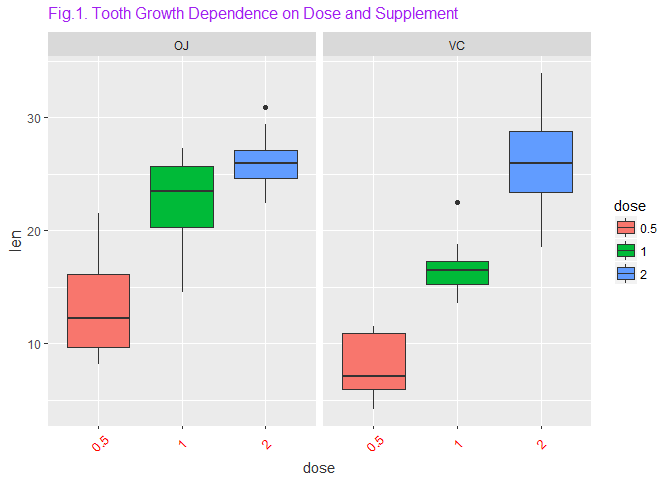
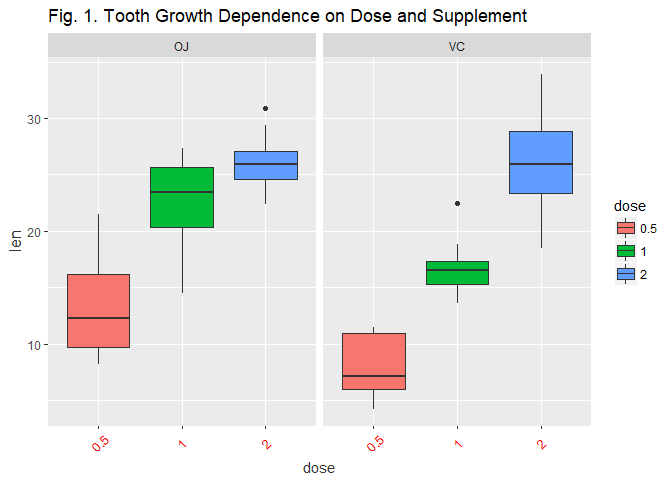
Final commit of Part II

diff --git a/tooth-growth.html b/tooth-growth.html
@@ -137,6 +137,8 @@ $(document).ready(function () {
 <div id="exploratory-data-analysis-of-the-toothgrowth-dataset" class="section level2">
 <h2>Exploratory Data Analysis of the ToothGrowth Dataset</h2>
 <p>We have not been given any instructions whatsoever related to the format of this data set or what it might represent. We have been asked to attempt to familiarize ourselves with this data with the use of exploratory data analysis techniques available with R programming. We will now conduct a few techniques so that we can become more familiar with this dataset. Comments are embedded within the R code below.</p>
+<div id="initial-data-mining" class="section level3">
+<h3>Initial Data Mining</h3>
 <pre class="r"><code># Load ToothGrowth dataset
 tgdata &lt;- ToothGrowth
 
@@ -225,19 +227,102 @@ tgdata</code></pre>
 ## 58 27.3   OJ    2
 ## 59 29.4   OJ    2
 ## 60 23.0   OJ    2</code></pre>
+</div>
+<div id="box-plot-visualization" class="section level3">
+<h3>Box Plot Visualization</h3>
 <p>Let’s now load the <strong>ggplot2</strong> library and visualize this data on a box plot.</p>
 <pre class="r"><code>library(&quot;ggplot2&quot;)
 tgdata$dose=as.factor(tgdata$dose)
 ggplot(tgdata, aes(x=dose,y=len)) + 
     geom_boxplot(aes(fill = dose)) + 
-    ggtitle('Fig.1. Tooth Growth Dependence on Dose and Supplement ') + 
+    ggtitle('Fig. 1. Tooth Growth Dependence on Dose and Supplement ') + 
     facet_grid(.~supp) + 
         theme(axis.title.y = element_text(colour=&quot;gray20&quot;,size=12,angle=90,hjust=.5,vjust=1),
         axis.title.x = element_text(colour=&quot;gray20&quot;),
-        plot.title = element_text(vjust=1.5,size = 12,colour=&quot;purple&quot;),
         axis.text.x = element_text(colour=&quot;red&quot;,size=10,angle=45,hjust=.5, vjust=.5))</code></pre>
[1 lines of base64/hex data omitted]
-<p>The box plots, as shown above in Fig. 1, allow us to visualize the distribution of the data along with five other important data points, including the min value, max value, mean, and the 1st and 3rd quartiles. Points on the lines outside the boxes are considered the outliers in the dataset. This visualization of the distribution of data clearly suggests that tooth growth in the guinea pigs clearly favored the delivery of the Vitamin C via the OJ with the smaller doses of 0.5 and 1 mg/day. The data further shows that while the means of the tooth growth related to the method of supplement delivery are equivalent with the higher dose of 2 mg/day. The tooth growth does show slightly higher normal variation with the ascorbic acid supplement in that higher dose of 2 mg/day.</p>
[1 lines of base64/hex data omitted]
+<p>The box plots, as shown above in Fig. 1, allow us to visualize the distribution of the data along with five other important data points, including the min value, max value, mean, and the 1st and 3rd quartiles. Points on the lines outside the boxes are considered the outliers in the dataset. This visualization of the distribution of data clearly suggests that tooth growth in the guinea pigs clearly favored the delivery of the Vitamin C via the OJ with the smaller doses of 0.5 and 1 mg/day. The data further shows that while the means of the tooth growth related to the method of supplement delivery are equivalent with the higher dose of 2 mg/day, the tooth growth does show slightly higher normal variation with the ascorbic acid supplement in that higher dose of 2 mg/day.</p>
+</div>
+<div id="scatter-plot-visualization" class="section level3">
+<h3>Scatter Plot Visualization</h3>
+<p>Here is another visualization of the data using a scatterplot that I find very helpful.</p>
+<pre class="r"><code># Calculate the mean for every dose and supp
+avg &lt;- aggregate(len~., data=tgdata, mean)
+g &lt;- ggplot(aes(x=dose, y=len), data=tgdata) + 
+    geom_point(aes(color=supp)) +
+    ggtitle('Fig. 2. Tooth Growth Dependence on Dose and Supplement ')
+g &lt;- g + geom_line(data=avg,aes(group=supp,colour=supp))
+print(g)</code></pre>
[1 lines of base64/hex data omitted]
+<p>This plot shows the same result as the boxplot in Fig. 1. In Fig. 2, once again, we can visualize that the tooth length associated with the OJ supplement are clearly higher with the lower doses and these means converge with the higher dose of 2 mg/day. At the higher dose of 2 mg/day, along with the convergence of the means, we can easily visualize that the variance of the data is greater with the VC supplement thus creating some events with greater tooth length along with events that are clearly shorter.</p>
+</div>
+</div>
+<div id="t-confidence-intervals-and-hypothesis-testing" class="section level2">
+<h2>T Confidence Intervals and Hypothesis Testing</h2>
+<p>T Confidence Intervals is a statistical method for dealing with small datasets. In the Asymptotics lesson, we discussed confidence intervals using the Central Limit Theorem (CLT) and normal distributions. These methods required large sample sizes, and the formula for computing the confidence interval was mean +/- qnorm * std error(mean). Here, qnorm represents a specified quantile from a normal distribution. Also, in the study of Asymptotics, we also learned about the Z statistic Z =(X’-mu)/(sigma/sqrt(n)) which follows a standard normal distribution. This normalized Z statistic is especially nice because we know tha values of the mean and the variance which are 0 and 1, respectively.</p>
+<p>The T statistic looks a lot like the Z. It’s defined as t=(X’-mu)/(s/sqrt(n)). Like the Z statistic, the t is centered around 0. The only difference between the two is that the population standard deviation, sigma, in Z is replaced by the sample standard deviation in the t. So the distribution of the t statistic is independent on the population mean and variance. Instead, it depends on the sample size of n. The sample size of n now leads us into the definition of a concept of number of degrees of freedom, df, which is calculated simply as n-1.</p>
+<p>In our lesson, we are encouraged, unless otherwise instructed, to consider that the default confidence interval should always be 95%. Our lecture took us through a series of exercises that concluded with the suggested use of the built-in R programming capabilities of t.test.</p>
+<div id="subset-dosage-as-a-factor" class="section level3">
+<h3>Subset Dosage as a Factor</h3>
+<pre class="r"><code>dose1 &lt;- subset(tgdata, dose %in% c(0.5, 1.0))
+dose2 &lt;- subset(tgdata, dose %in% c(0.5, 2.0))
+dose3 &lt;- subset(tgdata, dose %in% c(1.0, 2.0))
+t.test(len ~ dose, paired = F, var.equal = F, data = dose1)</code></pre>
+<pre><code>## 
+##  Welch Two Sample t-test
+## 
+## data:  len by dose
+## t = -6.4766, df = 37.986, p-value = 1.268e-07
+## alternative hypothesis: true difference in means is not equal to 0
+## 95 percent confidence interval:
+##  -11.983781  -6.276219
+## sample estimates:
+## mean in group 0.5   mean in group 1 
+##            10.605            19.735</code></pre>
+<pre class="r"><code>t.test(len ~ dose, paired = F, var.equal = F, data = dose2)</code></pre>
+<pre><code>## 
+##  Welch Two Sample t-test
+## 
+## data:  len by dose
+## t = -11.799, df = 36.883, p-value = 4.398e-14
+## alternative hypothesis: true difference in means is not equal to 0
+## 95 percent confidence interval:
+##  -18.15617 -12.83383
+## sample estimates:
+## mean in group 0.5   mean in group 2 
+##            10.605            26.100</code></pre>
+<pre class="r"><code>t.test(len ~ dose, paired = F, var.equal = F, data = dose3)</code></pre>
+<pre><code>## 
+##  Welch Two Sample t-test
+## 
+## data:  len by dose
+## t = -4.9005, df = 37.101, p-value = 1.906e-05
+## alternative hypothesis: true difference in means is not equal to 0
+## 95 percent confidence interval:
+##  -8.996481 -3.733519
+## sample estimates:
+## mean in group 1 mean in group 2 
+##          19.735          26.100</code></pre>
+</div>
+<div id="supplement-dosage-as-a-factor" class="section level3">
+<h3>Supplement Dosage as a Factor</h3>
+<pre class="r"><code>t.test(len ~ supp, paired = F, var.equal = F, data = tgdata)</code></pre>
+<pre><code>## 
+##  Welch Two Sample t-test
+## 
+## data:  len by supp
+## t = 1.9153, df = 55.309, p-value = 0.06063
+## alternative hypothesis: true difference in means is not equal to 0
+## 95 percent confidence interval:
+##  -0.1710156  7.5710156
+## sample estimates:
+## mean in group OJ mean in group VC 
+##         20.66333         16.96333</code></pre>
+</div>
+</div>
+<div id="conclusion" class="section level2">
+<h2>Conclusion</h2>
+<p>From the t confidence intervals calculated above, we can conclude that we should reject the null hypothesis, and confirm that there is a significant correlation between tooth length and dosage levels because the value of zero does not appear within any of the calculated confidence intervals. Alternatively, we would choose to accept the null hypothesis and confirm that there is no correlation between delivery method and tooth length as the value of zero does exist within the bounds of the calculated confidence interval.</p>
 </div>
 
 

diff --git a/tooth-growth.md b/tooth-growth.md
@@ -17,6 +17,8 @@ In the second portion of the project, we're going to analyze the ToothGrowth dat
 
 We have not been given any instructions whatsoever related to the format of this data set or what it might represent.  We have been asked to attempt to familiarize ourselves with this data with the use of exploratory data analysis techniques available with R programming.  We will now conduct a few techniques so that we can become more familiar with this dataset.  Comments are embedded within the R code below.
 
+### Initial Data Mining
+
 
 ```r
 # Load ToothGrowth dataset
@@ -130,6 +132,8 @@ tgdata
 ## 60 23.0   OJ    2
 ```
 
+### Box Plot Visualization
+
 Let's now load the **ggplot2** library and visualize this data on a box plot.
 
 
@@ -139,22 +143,127 @@ library("ggplot2")
 tgdata$dose=as.factor(tgdata$dose)
 ggplot(tgdata, aes(x=dose,y=len)) + 
     geom_boxplot(aes(fill = dose)) + 
-    ggtitle('Fig.1. Tooth Growth Dependence on Dose and Supplement ') + 
+    ggtitle('Fig. 1. Tooth Growth Dependence on Dose and Supplement ') + 
     facet_grid(.~supp) + 
         theme(axis.title.y = element_text(colour="gray20",size=12,angle=90,hjust=.5,vjust=1),
         axis.title.x = element_text(colour="gray20"),
-        plot.title = element_text(vjust=1.5,size = 12,colour="purple"),
         axis.text.x = element_text(colour="red",size=10,angle=45,hjust=.5, vjust=.5))
 ```
 
 ![](tooth-growth_files/figure-html/unnamed-chunk-2-1.png)<!-- -->
 
-The box plots, as shown above in Fig. 1, allow us to visualize the distribution of the data along with five other important data points, including the min value, max value, mean, and the 1st and 3rd quartiles.  Points on the lines outside the boxes are considered the outliers in the dataset.  This visualization of the distribution of data clearly suggests that tooth growth in the guinea pigs clearly favored the delivery of the Vitamin C via the OJ with the smaller doses of 0.5 and 1 mg/day. The data further shows that while the means of the tooth growth related to the method of supplement delivery are equivalent with the higher dose of 2 mg/day. The tooth growth does show slightly higher normal variation with the ascorbic acid supplement in that higher dose of 2 mg/day.
+The box plots, as shown above in Fig. 1, allow us to visualize the distribution of the data along with five other important data points, including the min value, max value, mean, and the 1st and 3rd quartiles.  Points on the lines outside the boxes are considered the outliers in the dataset.  This visualization of the distribution of data clearly suggests that tooth growth in the guinea pigs clearly favored the delivery of the Vitamin C via the OJ with the smaller doses of 0.5 and 1 mg/day. The data further shows that while the means of the tooth growth related to the method of supplement delivery are equivalent with the higher dose of 2 mg/day, the tooth growth does show slightly higher normal variation with the ascorbic acid supplement in that higher dose of 2 mg/day.
+
+### Scatter Plot Visualization
+
+Here is another visualization of the data using a scatterplot that I find very helpful.  
 
 
+```r
+# Calculate the mean for every dose and supp
+avg <- aggregate(len~., data=tgdata, mean)
+g <- ggplot(aes(x=dose, y=len), data=tgdata) + 
+    geom_point(aes(color=supp)) +
+    ggtitle('Fig. 2. Tooth Growth Dependence on Dose and Supplement ')
+g <- g + geom_line(data=avg,aes(group=supp,colour=supp))
+print(g)
+```
+
+![](tooth-growth_files/figure-html/unnamed-chunk-3-1.png)<!-- -->
+
+This plot shows the same result as the boxplot in Fig. 1. In Fig. 2, once again, we can visualize that the tooth length associated with the OJ supplement are clearly higher with the lower doses and these means converge with the higher dose of 2 mg/day.  At the higher dose of 2 mg/day, along with the convergence of the means, we can easily visualize that the variance of the data is greater with the VC supplement thus creating some events with greater tooth length along with events that are clearly shorter.
+
+## T Confidence Intervals and Hypothesis Testing
+
+T Confidence Intervals is a statistical method for dealing with small datasets. In the Asymptotics lesson, we discussed confidence intervals using the Central Limit Theorem (CLT) and normal distributions.  These methods required large sample sizes, and the formula for computing the confidence interval was mean +/- qnorm * std error(mean).  Here, qnorm represents a specified quantile from a normal distribution.  Also, in the study of Asymptotics, we also learned about the Z statistic Z =(X'-mu)/(sigma/sqrt(n)) which follows a standard normal distribution.  This normalized Z statistic is especially nice because we know tha values of the mean and the variance which are 0 and 1, respectively.
+
+The T statistic looks a lot like the Z.  It's defined as t=(X'-mu)/(s/sqrt(n)).  Like the Z statistic, the t is centered around 0.  The only difference between the two is that the population standard deviation, sigma, in Z is replaced by the sample standard deviation in the t.  So the distribution of the t statistic is independent on the population mean and variance.  Instead, it depends on the sample size of n.  The sample size of n now leads us into the definition of a concept of number of degrees of freedom, df, which is calculated simply as n-1.
+
+In our lesson, we are encouraged, unless otherwise instructed, to consider that the default confidence interval should always be 95%.  Our lecture took us through a series of exercises that concluded with the suggested use of the built-in R programming capabilities of t.test.
+
+### Subset Dosage as a Factor
 
 
+```r
+dose1 <- subset(tgdata, dose %in% c(0.5, 1.0))
+dose2 <- subset(tgdata, dose %in% c(0.5, 2.0))
+dose3 <- subset(tgdata, dose %in% c(1.0, 2.0))
+t.test(len ~ dose, paired = F, var.equal = F, data = dose1)
+```
+
+```
+## 
+## 	Welch Two Sample t-test
+## 
+## data:  len by dose
+## t = -6.4766, df = 37.986, p-value = 1.268e-07
+## alternative hypothesis: true difference in means is not equal to 0
+## 95 percent confidence interval:
+##  -11.983781  -6.276219
+## sample estimates:
+## mean in group 0.5   mean in group 1 
+##            10.605            19.735
+```
 
 
+```r
+t.test(len ~ dose, paired = F, var.equal = F, data = dose2)
+```
+
+```
+## 
+## 	Welch Two Sample t-test
+## 
+## data:  len by dose
+## t = -11.799, df = 36.883, p-value = 4.398e-14
+## alternative hypothesis: true difference in means is not equal to 0
+## 95 percent confidence interval:
+##  -18.15617 -12.83383
+## sample estimates:
+## mean in group 0.5   mean in group 2 
+##            10.605            26.100
+```
 
 
+```r
+t.test(len ~ dose, paired = F, var.equal = F, data = dose3)
+```
+
+```
+## 
+## 	Welch Two Sample t-test
+## 
+## data:  len by dose
+## t = -4.9005, df = 37.101, p-value = 1.906e-05
+## alternative hypothesis: true difference in means is not equal to 0
+## 95 percent confidence interval:
+##  -8.996481 -3.733519
+## sample estimates:
+## mean in group 1 mean in group 2 
+##          19.735          26.100
+```
+
+### Supplement Dosage as a Factor
+
+
+```r
+t.test(len ~ supp, paired = F, var.equal = F, data = tgdata)
+```
+
+```
+## 
+## 	Welch Two Sample t-test
+## 
+## data:  len by supp
+## t = 1.9153, df = 55.309, p-value = 0.06063
+## alternative hypothesis: true difference in means is not equal to 0
+## 95 percent confidence interval:
+##  -0.1710156  7.5710156
+## sample estimates:
+## mean in group OJ mean in group VC 
+##         20.66333         16.96333
+```
+
+## Conclusion
+
+From the t confidence intervals calculated above, we can conclude that we should reject the null hypothesis, and confirm that there is a significant correlation between tooth length and dosage levels because the value of zero does not appear within any of the calculated confidence intervals. Alternatively, we would choose to accept the null hypothesis and confirm that there is no correlation between delivery method and tooth length as the value of zero does exist within the bounds of the calculated confidence interval.
